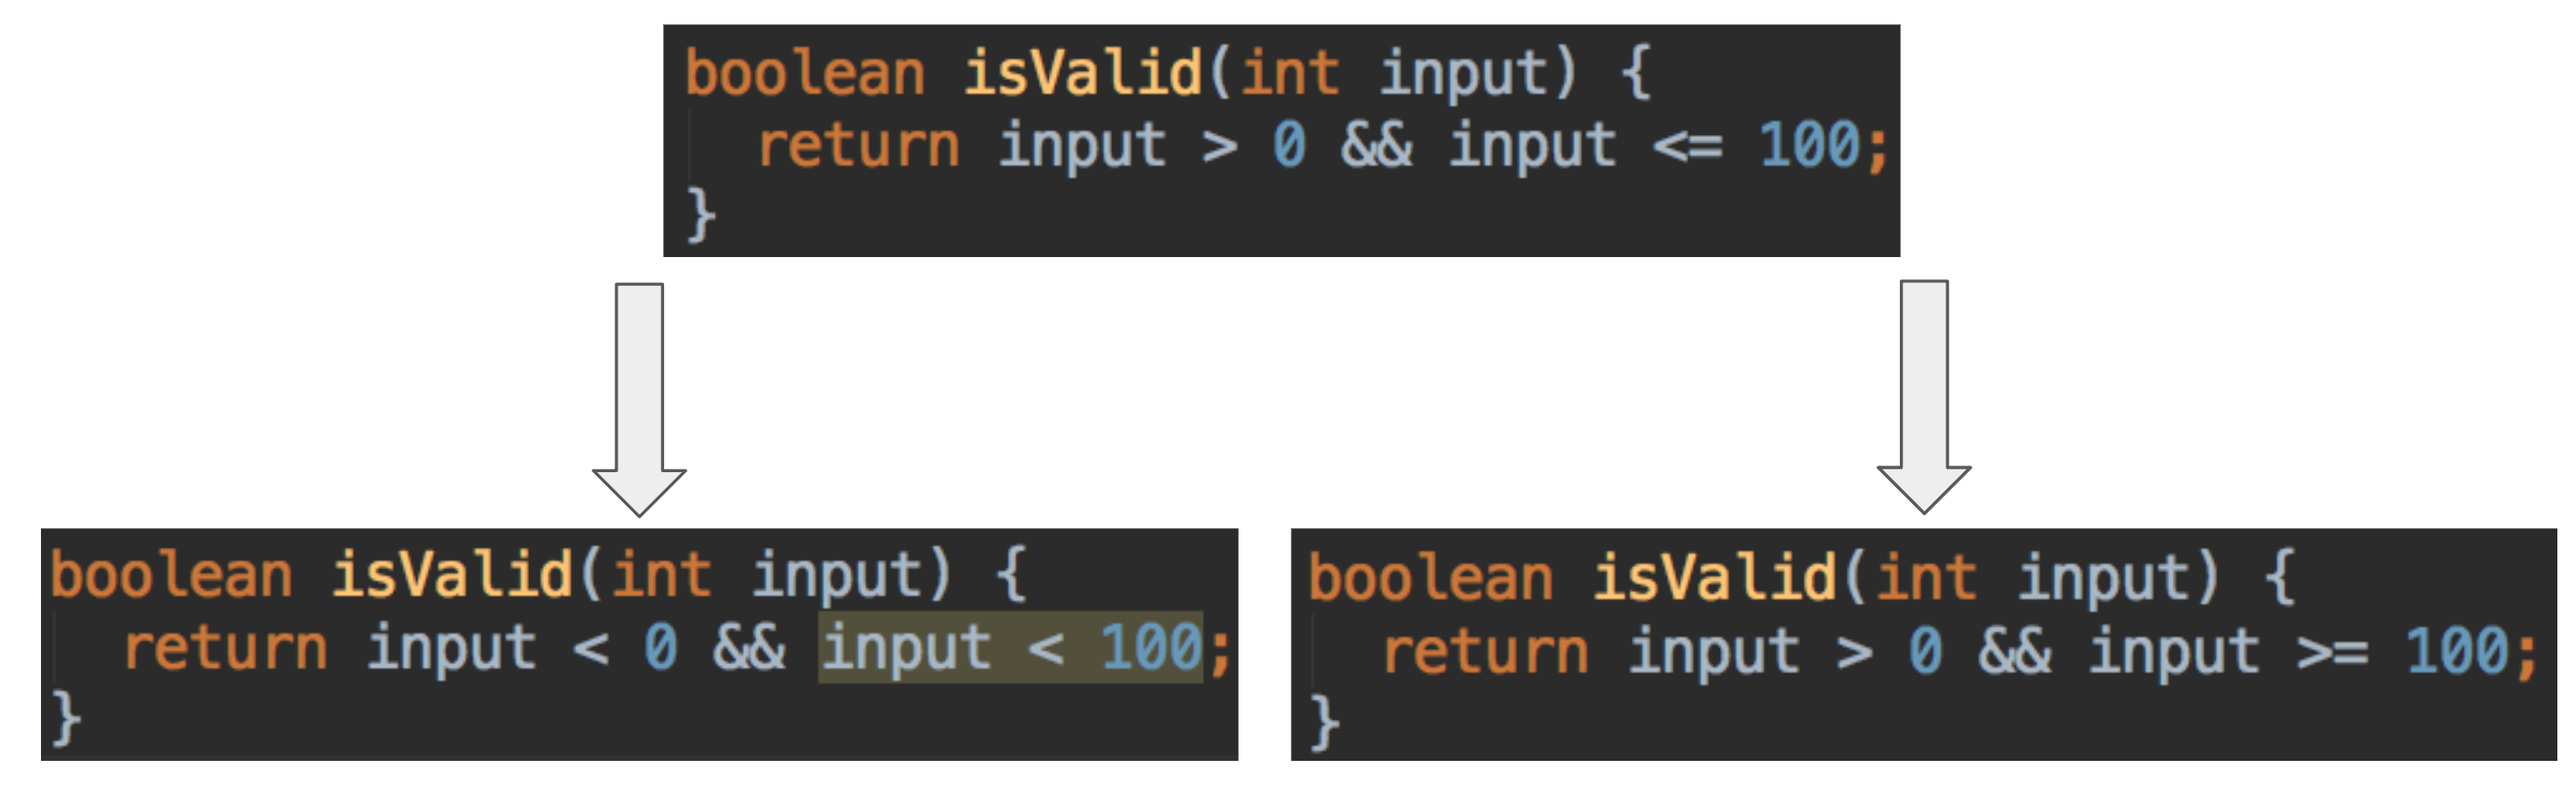
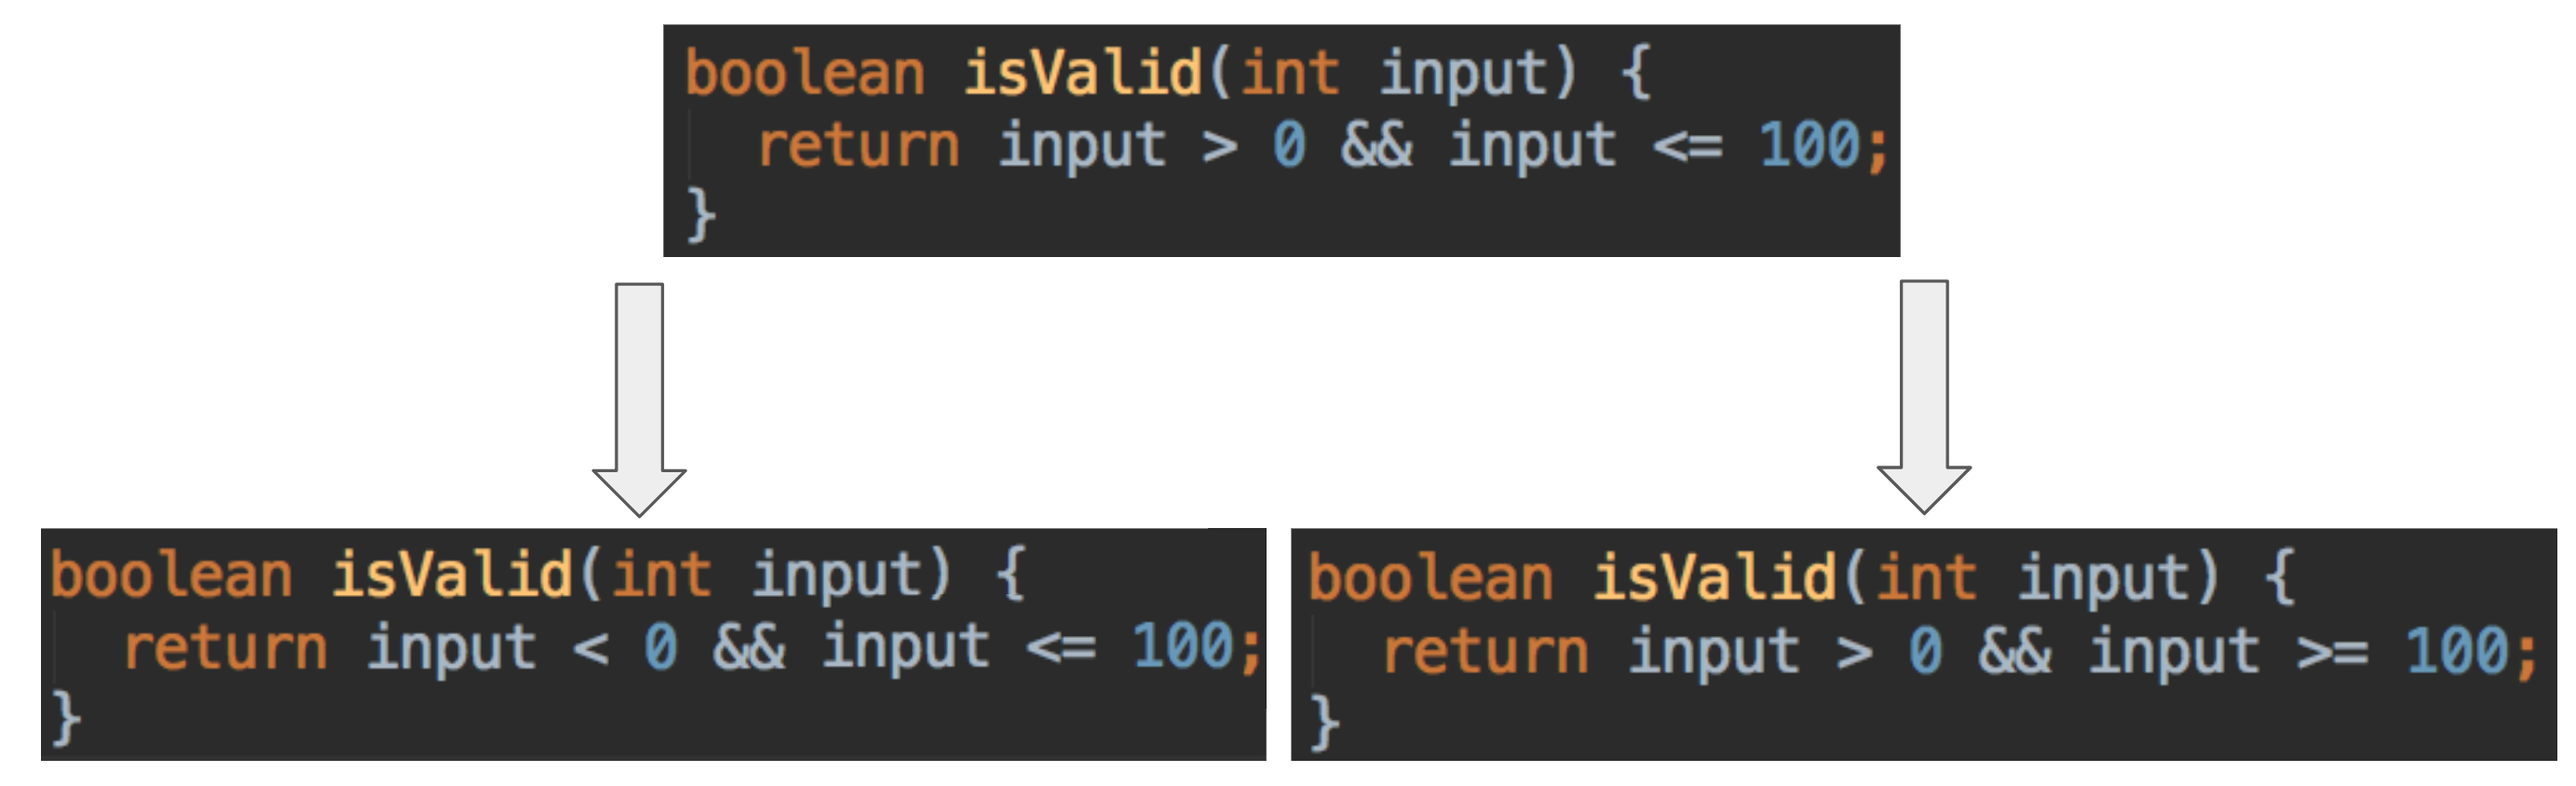
Rewritten after first feedbacks

Changed region(s): [[0.3109, 0.6777, 0.4975, 0.9858]]

diff --git a/index.html b/index.html
@@ -28,15 +28,64 @@
     <section><h2>Do you trust your <span class='pitest-pink'>unit tests</span>?</h2></section>
 
     <section data-markdown>
-      ## [bit.ly/2PJgc7G](http://bit.ly/2PJgc7G)
+      [bit.ly/2PJgc7G](http://bit.ly/2PJgc7G)
     </section>
 
     <section data-markdown>
       <script type='text/template'>
-        ![Pitest](./assets/logo.png)
+        ### Study case: Range Validator
 
-        <h3><span class='pitest-pink'>Mutation</span> testing</h3>
+        Validate an input number to be between 1 and 100
+        ![code](./assets/code.png)
       </script>
+    </section>
+
+    <section data-markdown>
+      [![sonar report](./assets/sonar-report.png)](http://localhost:9000/dashboard?id=com.rdelgatte%3Apitest-examples)
+    </section>
+
+    <section data-markdown>
+      ![awesome](./assets/awesome.png)
+    </section>
+
+    <section>
+      <section data-markdown>
+        Not really... let's have a look to our unit tests
+      </section>
+
+      <section data-markdown>
+        ![unit-tests-1](./assets/unit-tests-1.png)
+      </section>
+
+      <section data-markdown>
+        ![what](./assets/what.png)
+      </section>
+    </section>
+
+    <section data-markdown>
+      ![jacoco icon](./assets/jacoco-icon.png)
+
+      ![jacoco report](./assets/jacoco-report.png)
+    </section>
+
+    <section data-markdown>
+      ### Line coverage
+
+      How much of your code lines are executed while processing unit tests
+
+      ![line-coverage-test](./assets/line-coverage-test.png)
+    </section>
+
+    <section data-markdown>
+      ### Branch coverage
+
+      All program branches or conditional states should be tested at least once
+
+      ![jacoco report](./assets/jacoco-report.png)
+    </section>
+
+    <section data-markdown>
+      ![assert-results](./assets/assert-results.png)
     </section>
 
     <section data-markdown>
@@ -45,10 +94,28 @@
 
     <section data-markdown>
       <script type='text/template'>
+        <h3><span class='pitest-pink'>Mutation</span> coverage</h3>
+      </script>
+    </section>
+
+    <section data-markdown>
+      <script type='text/template'>
         ## Concept
 
         <p>‘Faults (or <span class='pitest-pink'>*mutations*</span>) are automatically seeded into your code, then your
           tests are processed’</p>
+      </script>
+    </section>
+
+    <section data-markdown>
+      <script type='text/template'>
+        ## What is a <span class='pitest-pink'>*mutation*</span>?
+
+        - Replacement of boolean expression with `true` or `false`
+        - Replacement of arithmetic operations (`+`, `-`, `*`, `/`)
+        - Changing boolean relations (`>`, `>=`, `<`, `<=`, `==`)
+        - Statement deletion
+        - Statement duplication or insertion
       </script>
     </section>
 
@@ -87,49 +154,17 @@
     </section>
 
     <section data-markdown>
-      <script type='text/template'>
-        ## What is a <span class='pitest-pink'>*mutation*</span>?
-
-        - Replacement of boolean expression with `true` or `false`
-        - Replacement of arithmetic operations (`+`, `-`, `*`, `/`)
-        - Changing boolean relations (`>`, `>=`, `<`, `<=`, `==`)
-        - Statement deletion
-        - Statement duplication or insertion
-      </script>
-    </section>
-    <section data-markdown>
-      <script type='text/template'>
-        ### Study case: Range Validator
-
-        Validate an input number to be between 1 and 100
-        ![code](./assets/code.png)
-      </script>
-    </section>
-    <section data-markdown>
-      <script type='text/template'>
-        ### Unit tests - 100% coverage (testing nothing…)
-        ![test1](./assets/test1.png)
-        ![coverage](./assets/coverage.png)
-      </script>
-    </section>
-    <section data-markdown>
-      <script type='text/template'>
-        ### Unit tests with assertions
-        ![test2](./assets/test2.png)
-      </script>
+      ![Pitest](./assets/logo.png)
     </section>
 
     <section data-markdown>
-      <script type='text/template'>
-        ### Add and run Pitest
-        <div class='left'>
-          - Maven | Gradle | Ant quick starters
-          - Adding dependency
-          - Works with JUnit 5
-        </div>
-        <div class='right'>![pom](./assets/pom.png)</div>
-        http://pitest.org/quickstart
-      </script>
+      ## Configure Pitest
+
+      - Maven | Gradle | Ant quick starters
+      - Adding dependency
+      - Works with JUnit 5
+
+      http://pitest.org/quickstart
     </section>
 
     <section data-markdown>
@@ -148,7 +183,7 @@
         </configuration>
         ```
         - `avoidCallsTo` (ie. for logging services)
-        - `skip` (as in any goog testing tool...)
+        - `skip` (as in any good testing tool...)
         - ...
       </script>
     </section>
@@ -205,11 +240,12 @@
       </script>
     </section>
     <section data-markdown>
-      ![minion](./assets/minion.png)
+      ![xmen](./assets/xmen.jpg)
     </section>
     <section data-markdown>
       <script type='text/template'>
         ### A mutant is identified with
+
         - Mutation operator
         - Class and method signature
         - Index to the bytecode instruction which is mutated
@@ -220,12 +256,19 @@
 
     <section data-markdown>
       <script type='text/template'>
+        ### <div class='logo'>![tesseract](./assets/tesseract-logo.png)</div>Tesseract
+
+        ![tesseract](./assets/tesseract.png)
+      </script>
+    </section>
+
+    <section data-markdown>
+      <script type='text/template'>
         ### Feedbacks
 
         - Setup is <span class='pitest-pink'>easy</span> (configuration options)
         - Fast feedbacks
-        - Confidence about your unit tests reliability
-        - It’s fast : 5'30 vs 8’30” (maven) so <span class='pitest-pink'>+3’00</span> for <span class='pitest-pink'>1200+ unit tests</span>
+        - It’s fast: 5'30 vs 8’30” (maven) so <span class='pitest-pink'>+3’00</span> for <span class='pitest-pink'>1200+ unit tests</span>
         - You need ‘real’ unit tests so it can keep fast and efficient
       </script>
     </section>
@@ -262,10 +305,10 @@
       <script type='text/template'>
         ### What did we just learn?
 
-        - Mutation testing highlights <span class='pitest-pink'>unit tests relevance</span>
-        - Pitest manipulates bytecode to generate mutations in your java code
-        - It reports all potential issues and missing covered cases in your unit tests...
-        - ... but first, it helps building <span class='pitest-pink'>better unit tests</span>
+        - Code quality is not just about basic coverage results
+        - Mutation coverage highlights <span class='pitest-pink'>unit tests relevance</span>
+        - It helps building <span class='pitest-pink'>better unit tests</span>
+        - Pitest is really easy to setup in a java project
       </script>
     </section>
     <section data-markdown>
@@ -273,7 +316,7 @@
 
       Slides: [bit.ly/2QTdBrN](bit.ly/2QTdBrN)
 
-      Code: [github.com/rdelgatte/pitest](github.com/rdelgatte/pitest)
+      Code: [github.com/rdelgatte/pitest-examples](github.com/rdelgatte/pitest-examples)
     </section>
   </div>
 </div>

diff --git a/css/override.css b/css/override.css
@@ -34,3 +34,8 @@
   background-color: #f4ccccff;
   border: 1px solid black;
 }
+
+.logo {
+  width: 50px;
+  float: left;
+}
